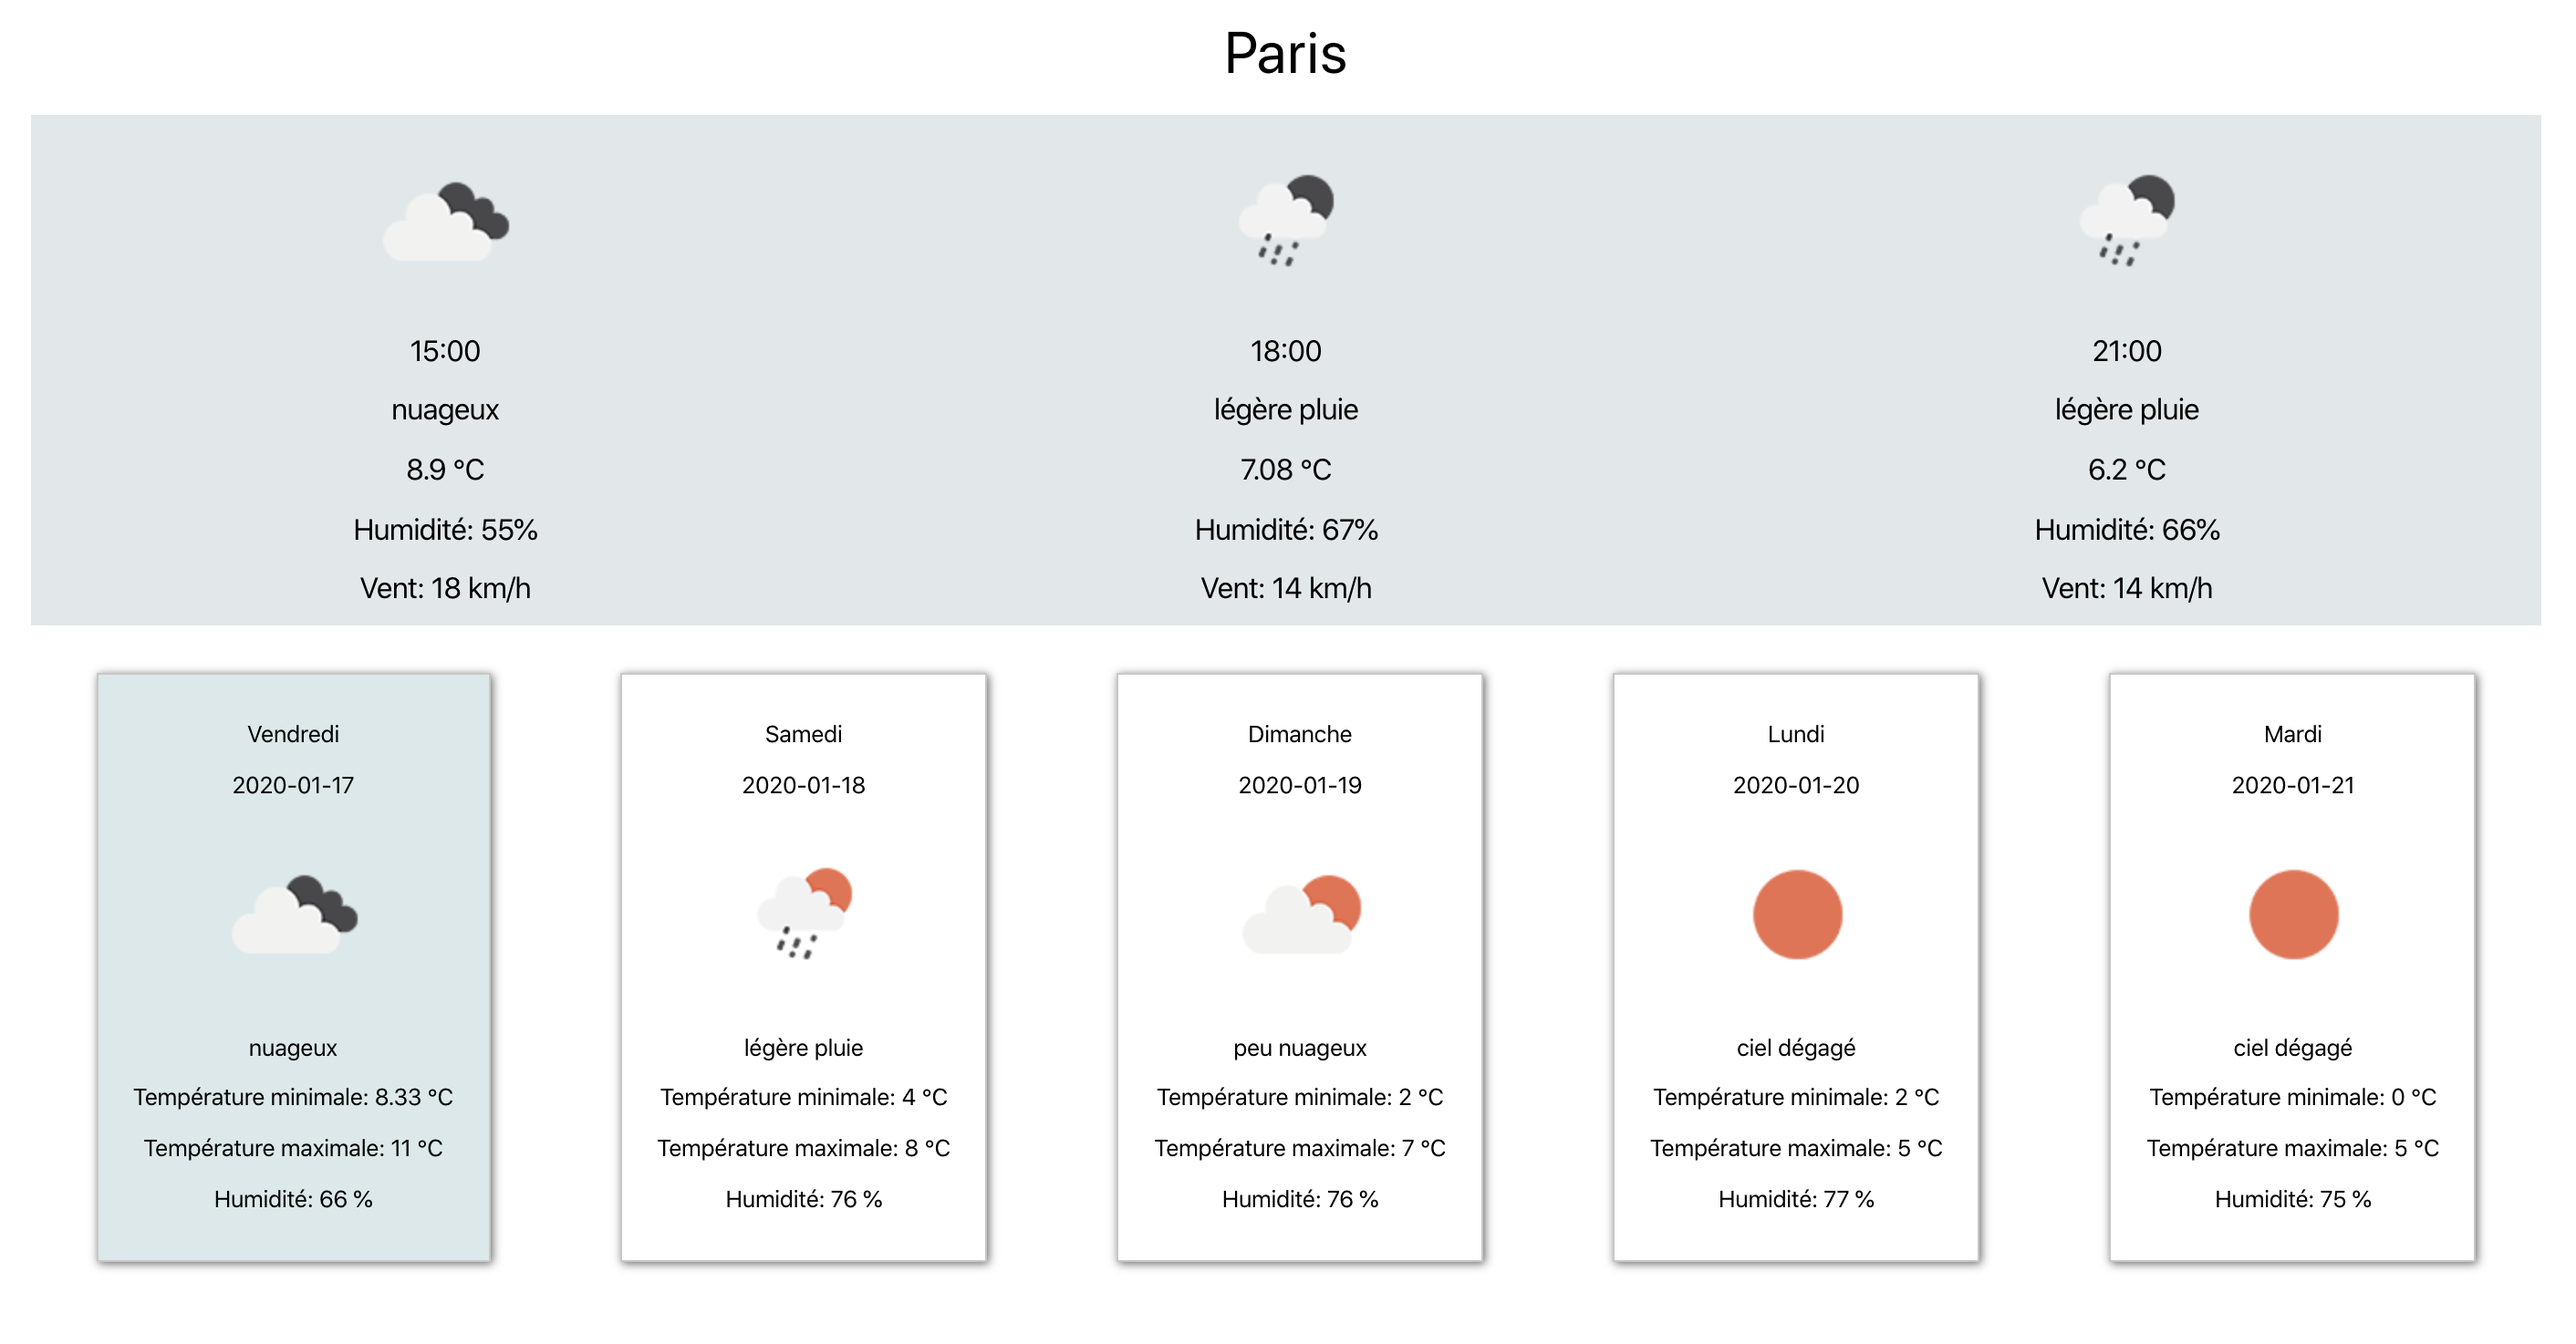
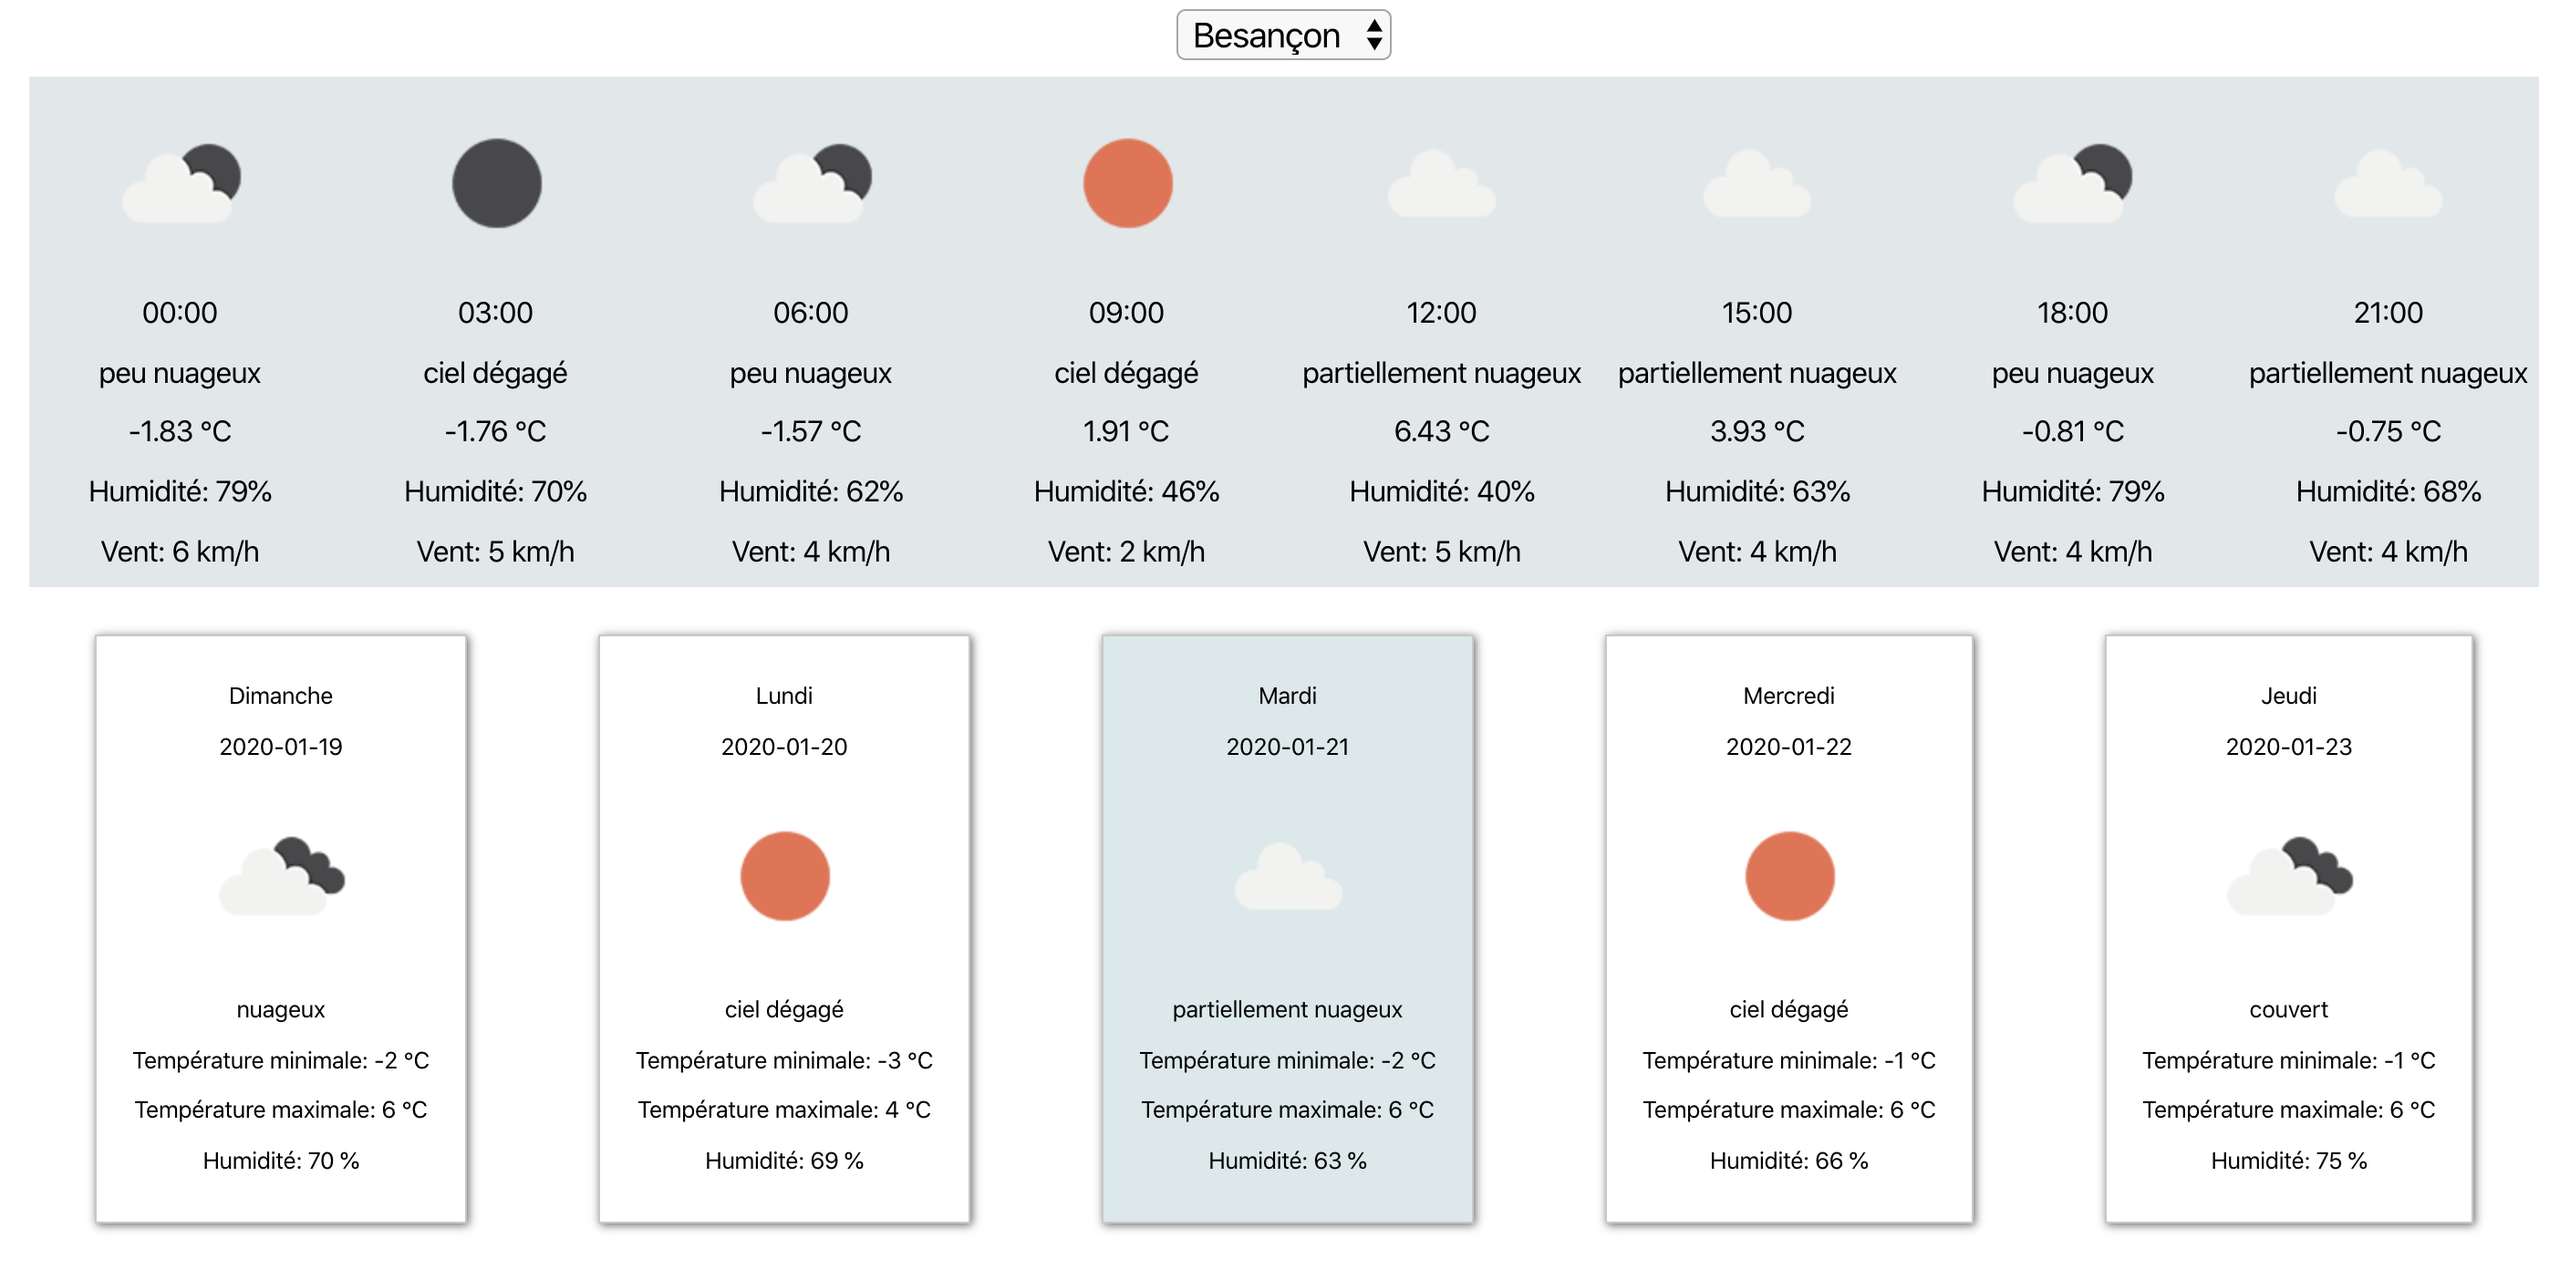
With multiple city selection

diff --git a/src/components/WeatherWeek.js b/src/components/WeatherWeek.js
@@ -28,7 +28,7 @@ const WeatherWeek = ({ id }) => {
 			setIsLoading(false);
 		}
 	};
-	console.log(data)
+	//console.log(data)
     // fetching data for today
     const fetchingTodayData = async () => {
 		try {
@@ -58,7 +58,7 @@ const WeatherWeek = ({ id }) => {
 		data.map((el) => min.push(Math.round(el.main.temp_min)));
 		data.map((el) => max.push(Math.round(el.main.temp_max)));
         data.map((el) => humidity.push(el.main.humidity));
-        
+        const newWeek = [];
 		for (let i = 0; i < 4; i++) {
 			// Storing data in 5 objects, 1 object per day
 			let temp_min = min.slice(i * n + tmr, i * n + tmr + n).sort((a, b) => a - b);
@@ -76,16 +76,16 @@ const WeatherWeek = ({ id }) => {
 				temp_max: Math.round(temp_max[0]),
 				humidity: Math.round(hum /len) // average humidity for the day
 			};
-			const newWeek = week;
+			
 			newWeek.push(day);
 			setWeek(newWeek);
 		}
 	};
-console.log(week)
+//console.log(week)
 	useEffect(() => {
         fetchingData();
         fetchingTodayData();
-	}, []);
+	}, [id]);
 
 	useEffect(
 		() => {
@@ -100,7 +100,7 @@ console.log(week)
 		<>
 			{isLoading ? null : (
 				<>
-				<div className="city">{city}</div>
+				
 				<WeatherMainCard date={selected} data={data} />
                 <div className="weatherWeek">
 				<div className="weekContainer">

diff --git a/src/App.css b/src/App.css
@@ -2,7 +2,7 @@
 	text-align: center;
 	padding: 0 2em;
 }
-.weatherCard{
+.weatherCard {
 	width: fit-content;
 	min-width: 120px;
 	height: 100%;
@@ -10,43 +10,42 @@
 	padding: 1em 1.5em;
 	margin: 2em auto;
 	border: 1px rgb(201, 199, 199) solid;
-	box-shadow: 1px 1px 5px  rgb(104, 103, 103) ;
+	box-shadow: 1px 1px 5px rgb(104, 103, 103);
 }
-.weatherCard:hover{
+.weatherCard:hover {
 	background-color: rgb(217, 232, 233);
 }
-.weatherWeek{
+.weatherWeek {
 	display: flex;
 }
-.weekContainer{
+.weekContainer {
 	display: flex;
 	justify-content: center;
 	width: 100%;
 	height: fit-content;
 }
-.city{
-	font-size: 2rem;
+.city select {
+	font-size: 1.2rem;
 	margin: .5em auto;
 }
-.weatherMainCard{
+.weatherMainCard {
 	display: flex;
 	justify-content: center;
 	width: 100%;
 	height: 280px;
 }
-.displayContainer{
+.displayContainer {
 	display: flex;
 	width: 100%;
 	background-color: rgb(225, 232, 233);
 	justify-content: space-between;
 }
-.card{
+.card {
 	display: flex;
 	flex-direction: column;
 	align-items: center;
 	justify-content: space-evenly;
-	
 }
-.card p{
+.card p {
 	margin: .2em auto;
 }

diff --git a/src/App.js b/src/App.js
@@ -1,12 +1,19 @@
-import React from 'react';
+import React, {useState} from 'react';
 import './App.css';
 import WeatherWeek from './components/WeatherWeek'
+import cities from './assets/cities.json'
 
 const App = ()=> {
-  
+  const [city, setCity] = useState(2988507)
+  // console.log(city)
 return(
   <div className="App">
-    <WeatherWeek id={2988507} /> 
+  <div className="city">
+    <select value={city} onChange={(e)=>setCity(e.target.value)} >
+     {cities.map(el=> <option value={el.id}>{el.name}</option>)}
+    </select>
+    </div>
+    <WeatherWeek id={city} /> 
   </div>
   
 )
